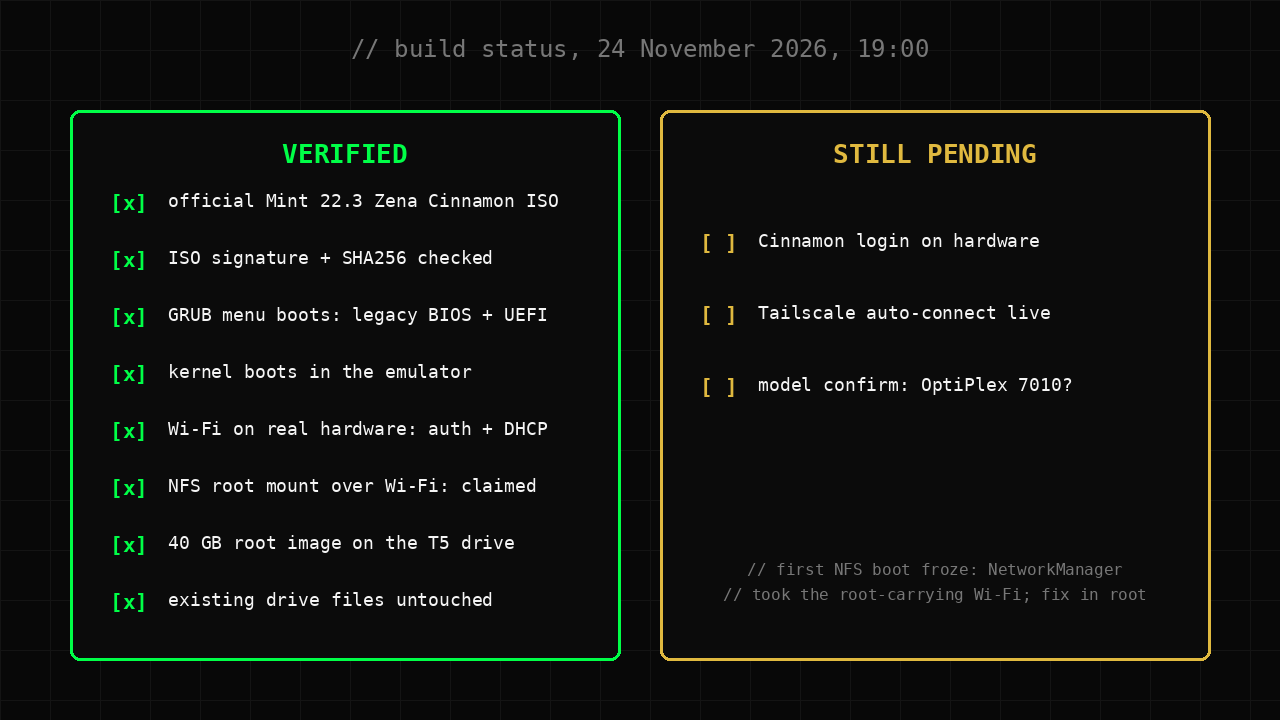
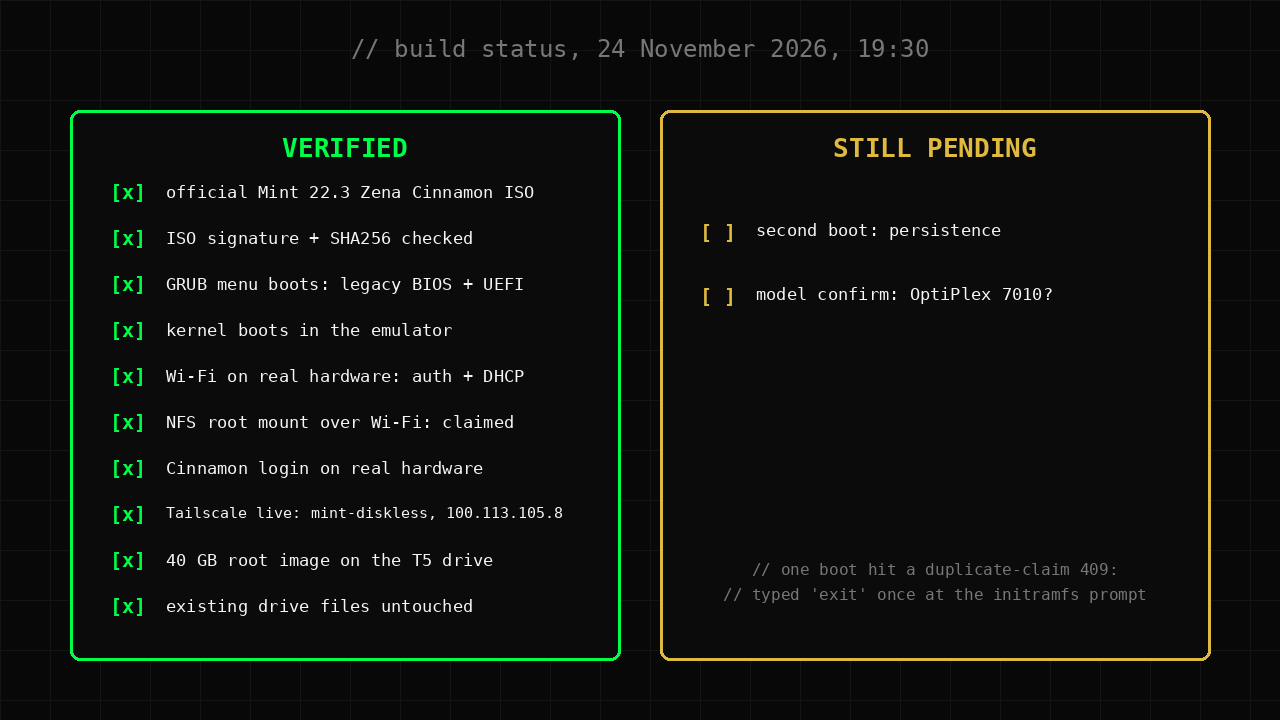
Netboot article: Cinnamon login verified on real hardware (~19:30), Tailscale live, persistence + model pending

diff --git a/diskless-mint-netboot.html b/diskless-mint-netboot.html
@@ -3,7 +3,7 @@
 <head>
   <meta charset="utf-8">
   <meta name="viewport" content="width=device-width,initial-scale=1">
-  <meta name="description" content="A diskless Linux Mint Cinnamon desktop that boots over Wi-Fi from my home server: a tiny USB loader, an NFS root on u3 and Tailscale for away from home. Emulator-tested, Wi-Fi and the NFS root mount verified on real hardware, Cinnamon login still pending, 0 DKK spent.">
+  <meta name="description" content="A diskless Linux Mint Cinnamon desktop that boots over Wi-Fi from my home server: a tiny USB loader, an NFS root on u3 and Tailscale for away from home. Emulator-tested, Wi-Fi, NFS root and the Cinnamon login verified on real hardware, persistence across reboots still open, 0 DKK spent.">
   <meta name="theme-color" content="#08111f">
   <title>Diskless Linux Mint: one desktop that boots from my home network | Andreas Patinas</title>
   <script>document.documentElement.classList.add('js');(function(){var t=localStorage.getItem('portfolio-theme');if(!t){t=window.matchMedia&&window.matchMedia('(prefers-color-scheme: light)').matches?'light':'dark'}document.documentElement.dataset.theme=t})()</script>
@@ -23,6 +23,7 @@ img.wide{width:min(720px,100%);border:1px solid var(--line);border-radius:6px}
 .post-body th{color:var(--ink);background:var(--panel)}
 .yes{color:#00c853;font-weight:700}.no{color:#ff5f56;font-weight:700}.part{color:#e0b93f;font-weight:700}
 .badge{display:inline-block;background:rgba(224,185,63,.12);border:1px solid #e0b93f;color:#e0b93f;font:700 .7rem var(--mono);padding:1px 7px;border-radius:3px}
+.badge.ok{background:rgba(0,255,71,.12);border-color:#00ff47;color:#00c93e}
 </style>
 </head>
 <body>
@@ -35,7 +36,7 @@ img.wide{width:min(720px,100%);border:1px solid var(--line);border-radius:6px}
 <div class="post-meta"><span data-en="24 November 2026 · 5 min read · linux, netboot, home lab" data-da="24. november 2026 · 5 min læsning · linux, netboot, hjemmelab">24 November 2026 · 5 min read · linux, netboot, home lab</span></div>
 </header>
 <div class="post-body">
-<p><span class="badge" data-en="DESKTOP LOGIN STILL PENDING" data-da="DESKTOP-LOGIN AFVENTER STADIG">DESKTOP LOGIN STILL PENDING</span> <span data-en="The desktop is built, and the real boot is most of the way there: Wi-Fi authenticated and got an address, then the corrected loader claimed and mounted the NFS root from u3. Mint started its services, then its own NetworkManager took over the Wi-Fi carrying the root filesystem and the machine froze. The fix lives in the root on the server, and the Cinnamon login is still unproven. Pending parts carry a yellow badge. Total cost so far: 0 DKK." data-da="Desktoppen er bygget, og det rigtige boot er det meste af vejen: Wi-Fi godkendte og fik en adresse, og den rettede loader claimede og mountede NFS-roden fra u3. Mint startede sine tjenester, hvorefter dets egen NetworkManager overtog det Wi-Fi, der bar rodfilsystemet, og maskinen frøs. Rettelsen ligger i roden på serveren, og Cinnamon-loginnet er stadig ubevist. Afventende dele er markeret med et gult mærke. Samlet pris indtil videre: 0 kr.">The desktop is built, and the real boot is most of the way there: Wi-Fi authenticated and got an address, then the corrected loader claimed and mounted the NFS root from u3. Mint started its services, then its own NetworkManager took over the Wi-Fi carrying the root filesystem and the machine froze. The fix lives in the root on the server, and the Cinnamon login is still unproven. Pending parts carry a yellow badge. Total cost so far: 0 DKK.</span></p>
+<p><span class="badge ok" data-en="LOGIN VERIFIED ON REAL HARDWARE" data-da="LOGIN VERIFICERET PÅ RIGTIG HARDWARE">LOGIN VERIFIED ON REAL HARDWARE</span> <span data-en="The desktop works. On 24 November around 19:30 the OptiPlex booted from the Kingston stick over Wi-Fi, mounted the NFS root from u3, showed the greeter, I logged in, and the Cinnamon desktop with its panel and the Mint Welcome window was on the real screen. Tailscale connected by itself. The few parts still unproven carry a yellow badge. Total cost so far: 0 DKK." data-da="Desktoppen virker. Den 24. november omkring kl. 19.30 bootede OptiPlex'en fra Kingston-sticken over Wi-Fi, mountede NFS-roden fra u3, viste login-skærmen, jeg loggede ind, og Cinnamon-desktoppen med panel og Mints velkomstvindue var på den rigtige skærm. Tailscale forbandt af sig selv. De få dele, der stadig er ubeviste, er markeret med et gult mærke. Samlet pris indtil videre: 0 kr.">The desktop works. On 24 November around 19:30 the OptiPlex booted from the Kingston stick over Wi-Fi, mounted the NFS root from u3, showed the greeter, I logged in, and the Cinnamon desktop with its panel and the Mint Welcome window was on the real screen. Tailscale connected by itself. The few parts still unproven carry a yellow badge. Total cost so far: 0 DKK.</span></p>
 <h2 data-en="The idea: the PC stays empty" data-da="Ideen: PC'en forbliver tom">The idea: the PC stays empty</h2>
 <p data-en="I have an old Dell OptiPlex standing in another room, and I want a full Linux desktop on it without installing anything on the machine itself. The desktop, the files and the settings live on my home server (u3) on its external drive. Any machine that can reach the network should boot into the same desktop and pick up where I left off. With Tailscale on top, that desktop should also be reachable when I am away from home." data-da="Jeg har en gammel Dell OptiPlex stående i et andet rum, og jeg vil have en fuld Linux-desktop på den uden at installere noget på selve maskinen. Desktoppen, filerne og indstillingerne ligger på min hjemmeserver (u3) på dens eksterne drev. Enhver maskine, der kan nå netværket, skal boote ind i samme desktop og fortsætte, hvor jeg slap. Med Tailscale ovenpå skal den desktop også være tilgængelig, når jeg ikke er hjemme.">I have an old Dell OptiPlex standing in another room, and I want a full Linux desktop on it without installing anything on the machine itself. The desktop, the files and the settings live on my home server (u3) on its external drive. Any machine that can reach the network should boot into the same desktop and pick up where I left off. With Tailscale on top, that desktop should also be reachable when I am away from home.</p>
 <h2 data-en="The method" data-da="Metoden">The method</h2>
@@ -50,6 +51,9 @@ img.wide{width:min(720px,100%);border:1px solid var(--line);border-radius:6px}
 <li data-en="The loader reaches its boot menu in an emulator under both legacy BIOS and UEFI, and the kernel starts. That proves the boot path, nothing more." data-da="Loaderen når sin bootmenu i en emulator under både legacy BIOS og UEFI, og kernen starter. Det beviser boot-stien, ikke mere.">The loader reaches its boot menu in an emulator under both legacy BIOS and UEFI, and the kernel starts. That proves the boot path, nothing more.</li>
 <li data-en="Wi-Fi works on the real hardware: on the first live boot the loader authenticated, associated and got an address from the router (DHCP), 24 November 18:07." data-da="Wi-Fi virker på den rigtige hardware: ved det første live-boot godkendte loaderen, forbandt og fik en adresse fra routeren (DHCP), 24. november 18:07.">Wi-Fi works on the real hardware: on the first live boot the loader authenticated, associated and got an address from the router (DHCP), 24 November 18:07.</li>
 <li data-en="The NFS root mount over Wi-Fi: the corrected loader claimed and mounted the desktop root from u3, about 49,500 NFS calls on that first NFS boot, 24 November around 19:00." data-da="NFS-rodmountet over Wi-Fi: den rettede loader claimede og mountede desktop-roden fra u3, omkring 49.500 NFS-kald ved det første NFS-boot, 24. november omkring kl. 19.">The NFS root mount over Wi-Fi: the corrected loader claimed and mounted the desktop root from u3, about 49,500 NFS calls on that first NFS boot, 24 November around 19:00.</li>
+<li data-en="The Cinnamon login on real hardware: the OptiPlex booted over Wi-Fi, mounted the NFS root, showed the greeter, I logged in, and the Cinnamon desktop with its panel and the Mint Welcome window was on the screen, 24 November around 19:30." data-da="Cinnamon-loginnet på rigtig hardware: OptiPlex'en bootede over Wi-Fi, mountede NFS-roden, viste login-skærmen, jeg loggede ind, og Cinnamon-desktoppen med panel og Mints velkomstvindue var på skærmen, 24. november omkring kl. 19.30.">The Cinnamon login on real hardware: the OptiPlex booted over Wi-Fi, mounted the NFS root, showed the greeter, I logged in, and the Cinnamon desktop with its panel and the Mint Welcome window was on the screen, 24 November around 19:30.</li>
+<li data-en="Automatic Tailscale connection: the desktop joined my tailnet by itself as mint-diskless (100.113.105.8) on the first login, no manual steps." data-da="Automatisk Tailscale-forbindelse: desktoppen tilsluttede mit tailnet af sig selv som mint-diskless (100.113.105.8) ved det første login, ingen manuelle trin.">Automatic Tailscale connection: the desktop joined my tailnet by itself as mint-diskless (100.113.105.8) on the first login, no manual steps.</li>
+<li data-en="The fixes it took on real hardware: keep Mint's NetworkManager off the root-carrying Wi-Fi and hand DNS over cleanly. Both live in the root on u3; the stick is unchanged." data-da="Rettelserne, der skulle til på rigtig hardware: hold Mints NetworkManager væk fra det Wi-Fi, der bærer roden, og overdrag DNS rent. Begge ligger i roden på u3; sticken er uændret.">The fixes it took on real hardware: keep Mint's NetworkManager off the root-carrying Wi-Fi and hand DNS over cleanly. Both live in the root on u3; the stick is unchanged.</li>
 <li data-en="The desktop root is a fresh 40 GB ext4 image on the server's external drive. The drive's existing files are untouched and its health checks are clean." data-da="Desktop-roden er et nyt 40 GB ext4-image på serverens eksterne drev. Drevets eksisterende filer er urørte, og dets sundhedstjek er rene.">The desktop root is a fresh 40 GB ext4 image on the server's external drive. The drive's existing files are untouched and its health checks are clean.</li>
 <li data-en="The first loader build contained no passwords. The final build carries the Wi-Fi password so the machine connects by itself, so that stick stays at home." data-da="Det første loader-build indeholdt ingen adgangskoder. Det endelige build rummer Wi-Fi-kodeordet, så maskinen selv forbinder, så den stick bliver hjemme.">The first loader build contained no passwords. The final build carries the Wi-Fi password so the machine connects by itself, so that stick stays at home.</li>
 </ul>
@@ -57,13 +61,12 @@ img.wide{width:min(720px,100%);border:1px solid var(--line);border-radius:6px}
 <h2 data-en="Not proven yet" data-da="Ikke bevist endnu">Not proven yet</h2>
 <p><span data-en="These parts still wait:" data-da="Disse dele venter stadig:">These parts still wait:</span> <span class="badge" data-en="PENDING" data-da="AFVENTER">PENDING</span></p>
 <ul>
-<li data-en="The Cinnamon login. The first NFS boot got as far as Mint starting its services, then Mint's own NetworkManager config overrode the rule that leaves the root-carrying interface alone. NetworkManager grabbed the Wi-Fi that carries the desktop, the machine dropped off the network and froze. The fix lives in the root on u3, no stick rewrite needed, and a retry boot is in progress." data-da="Cinnamon-loginnet. Det første NFS-boot nåede frem til, at Mint startede sine tjenester, hvorefter Mints egen NetworkManager-konfiguration tilsidesatte reglen om at lade det interface, der bærer roden, være i fred. NetworkManager overtog det Wi-Fi, der bærer desktoppen, maskinen faldt af netværket og frøs. Rettelsen ligger i roden på u3, sticken skal ikke skrives om, og et nyt boot er i gang.">The Cinnamon login. The first NFS boot got as far as Mint starting its services, then Mint's own NetworkManager config overrode the rule that leaves the root-carrying interface alone. NetworkManager grabbed the Wi-Fi that carries the desktop, the machine dropped off the network and froze. The fix lives in the root on u3, no stick rewrite needed, and a retry boot is in progress.</li>
-<li data-en="Automatic Tailscale connection. Tailscale is installed and enabled in the desktop and joins my tailnet after a one-time approval." data-da="Automatisk Tailscale-forbindelse. Tailscale er installeret og aktiveret i desktoppen og tilslutter mit tailnet efter en engangsgodkendelse.">Automatic Tailscale connection. Tailscale is installed and enabled in the desktop and joins my tailnet after a one-time approval.</li>
+<li data-en="Persistence across a second boot. The first login works; whether the next boot comes up just as clean is unproven. One boot on the way here hit a duplicate-claim 409 and needed a single 'exit' at the initramfs prompt, so the boot is not yet guaranteed hands-free." data-da="Persistens på tværs af et andet boot. Det første login virker; om det næste boot kommer op lige så rent, er ubevist. Ét boot undervejs ramte en duplicate-claim 409 og krævede et enkelt 'exit' ved initramfs-prompten, så bootet er endnu ikke garanteret håndfrit.">Persistence across a second boot. The first login works; whether the next boot comes up just as clean is unproven. One boot on the way here hit a duplicate-claim 409 and needed a single 'exit' at the initramfs prompt, so the boot is not yet guaranteed hands-free.</li>
 <li data-en="The exact target model. Everything points to a Dell OptiPlex 7010, but that is unconfirmed." data-da="Den præcise målmodel. Alt peger på en Dell OptiPlex 7010, men det er ubekræftet.">The exact target model. Everything points to a Dell OptiPlex 7010, but that is unconfirmed.</li>
 </ul>
 <h2 data-en="What it costs" data-da="Hvad det koster">What it costs</h2>
 <p data-en="0 DKK so far. The PC is an old office machine, the server and its drive were already here, and the software is free: Linux Mint, the netboot.xyz tooling, NFS and Tailscale's free plan. The only thing left to spend is an hour with a spare USB stick." data-da="0 kr. indtil videre. PC'en er en gammel kontormaskine, serveren og dens drev var her i forvejen, og softwaren er gratis: Linux Mint, netboot.xyz-værktøjet, NFS og Tailscales gratisplan. Det eneste, der mangler at blive brugt, er en time med en ledig USB-stick.">0 DKK so far. The PC is an old office machine, the server and its drive were already here, and the software is free: Linux Mint, the netboot.xyz tooling, NFS and Tailscale's free plan. The only thing left to spend is an hour with a spare USB stick.</p>
-<p data-en="Next step: the NetworkManager fix applied in the root, one more boot, and the Cinnamon login. This article gets updated with the real result, whatever it is." data-da="Næste skridt: NetworkManager-rettelsen anvendt i roden, ét boot mere og Cinnamon-loginnet. Denne artikel bliver opdateret med det rigtige resultat, uanset hvad det bliver.">Next step: the NetworkManager fix applied in the root, one more boot, and the Cinnamon login. This article gets updated with the real result, whatever it is.</p>
+<p data-en="Next step: a second boot to prove persistence, and the model confirmation. This article gets updated with the real result, whatever it is." data-da="Næste skridt: et andet boot for at bevise persistens, og modelbekræftelsen. Denne artikel bliver opdateret med det rigtige resultat, uanset hvad det bliver.">Next step: a second boot to prove persistence, and the model confirmation. This article gets updated with the real result, whatever it is.</p>
 <a class="back" href="blog.html" data-en="Back to the blog" data-da="Tilbage til bloggen">Back to the blog</a>
 </div>
 </div>

diff --git a/blog.html b/blog.html
@@ -21,7 +21,7 @@ section{padding:84px 0 96px}.sectionhead{display:grid;grid-template-columns:1fr 
     <section><div class="wrap">
       <div class="sectionhead"><h2 data-en="Blog" data-da="Blog">Blog</h2><p data-en="Build logs and field notes from my own projects: what I tried, what broke and what worked." data-da="Byggelogge og feltnoter fra mine egne projekter: hvad jeg prøvede, hvad der gik i stykker, og hvad der virkede.">Build logs and field notes from my own projects: what I tried, what broke and what worked.</p></div>
       <div class="grid">
-        <article class="card"><span class="tag">FIELD NOTES</span><h3 data-en="Diskless Linux Mint: booting my desktop over the network" data-da="Diskfri Linux Mint: min desktop booter over netværket">Diskless Linux Mint: booting my desktop over the network</h3><div class="meta"><span data-en="24 November 2026 · 5 min read" data-da="24. november 2026 · 5 min læsning">24 November 2026 · 5 min read</span></div><p data-en="An old office PC boots a full Cinnamon desktop from the network: a tiny USB loader brings up Wi-Fi, mounts the persistent root from my home server over NFS and leaves the machine's disk untouched. Wi-Fi and the NFS root mount are verified on the real machine; the Cinnamon login is next. 0 DKK spent." data-da="En gammel kontor-PC booter en fuld Cinnamon-desktop fra netværket: en lille USB-loader starter Wi-Fi, mounter den persistente rod fra min hjemmeserver via NFS og lader maskinens disk være urørt. Wi-Fi og NFS-rodmountet er verificeret på den rigtige maskine; Cinnamon-loginnet er det næste. 0 kr. brugt.">An old office PC boots a full Cinnamon desktop from the network: a tiny USB loader brings up Wi-Fi, mounts the persistent root from my home server over NFS and leaves the machine's disk untouched. Wi-Fi and the NFS root mount are verified on the real machine; the Cinnamon login is next. 0 DKK spent.</p><div class="links"><a href="diskless-mint-netboot.html" data-en="Read the article" data-da="Læs artiklen">Read the article</a></div></article>
+        <article class="card"><span class="tag">FIELD NOTES</span><h3 data-en="Diskless Linux Mint: booting my desktop over the network" data-da="Diskfri Linux Mint: min desktop booter over netværket">Diskless Linux Mint: booting my desktop over the network</h3><div class="meta"><span data-en="24 November 2026 · 5 min read" data-da="24. november 2026 · 5 min læsning">24 November 2026 · 5 min read</span></div><p data-en="An old office PC boots a full Cinnamon desktop from the network: a tiny USB loader brings up Wi-Fi, mounts the persistent root from my home server over NFS and leaves the machine's disk untouched. Wi-Fi, NFS root and the Cinnamon login are verified on the real machine; persistence across reboots is next. 0 DKK spent." data-da="En gammel kontor-PC booter en fuld Cinnamon-desktop fra netværket: en lille USB-loader starter Wi-Fi, mounter den persistente rod fra min hjemmeserver via NFS og lader maskinens disk være urørt. Wi-Fi, NFS-rod og Cinnamon-login er verificeret på den rigtige maskine; persistens på tværs af genstart er det næste. 0 kr. brugt.">An old office PC boots a full Cinnamon desktop from the network: a tiny USB loader brings up Wi-Fi, mounts the persistent root from my home server over NFS and leaves the machine's disk untouched. Wi-Fi, NFS root and the Cinnamon login are verified on the real machine; persistence across reboots is next. 0 DKK spent.</p><div class="links"><a href="diskless-mint-netboot.html" data-en="Read the article" data-da="Læs artiklen">Read the article</a></div></article>
         <article class="card"><span class="tag">FIELD NOTES</span><h3 data-en="Cloud gaming, game by game: rented GPU vs official services" data-da="Cloud gaming, spil for spil: lejet GPU mod officielle tjenester">Cloud gaming, game by game: rented GPU vs official services</h3><div class="meta"><span data-en="20 November 2026 · 7 min read" data-da="20. november 2026 · 7 min læsning">20 November 2026 · 7 min read</span></div><p data-en="GTA5 story mode runs on a rented EU GPU for about 7.5-14 DKK an evening; Fortnite, Warzone and PUBG refuse it. The full per-game matrix, five free competitive games that do work, and Moonlight on a jailbroken PS4." data-da="GTA5 story mode kører på en lejet EU-GPU for cirka 7,5-14 kr. om aftenen; Fortnite, Warzone og PUBG nægter. Hele oversigten spil for spil, fem gratis competitive-spil der virker, og Moonlight på en jailbreaket PS4.">GTA5 story mode runs on a rented EU GPU for about 7.5-14 DKK an evening; Fortnite, Warzone and PUBG refuse it. The full per-game matrix, five free competitive games that do work, and Moonlight on a jailbroken PS4.</p><div class="links"><a href="cloud-gaming-rented-gpu.html" data-en="Read the article" data-da="Læs artiklen">Read the article</a></div></article>
         <article class="card"><span class="tag">FIELD NOTES</span><h3 data-en="How I make AI documentaries for Past Forward" data-da="Sådan laver jeg AI-dokumentarer til Past Forward">How I make AI documentaries for Past Forward</h3><div class="meta"><span data-en="1 November 2026 · 5 min read" data-da="1. november 2026 · 5 min læsning">1 November 2026 · 5 min read</span></div><p data-en="Chatterbox narration on a free Kaggle GPU, generated stills instead of AI video clips, Remotion assembly and the checks that caught five real errors. The full setup, reproducible with your own accounts." data-da="Chatterbox-oplæsning på en gratis Kaggle-GPU, genererede stills i stedet for AI-videoklip, Remotion-klipning og tjekkene, der fangede fem reelle fejl. Hele opsætningen, som du kan genskabe med dine egne konti.">Chatterbox narration on a free Kaggle GPU, generated stills instead of AI video clips, Remotion assembly and the checks that caught five real errors. The full setup, reproducible with your own accounts.</p><div class="links"><a href="past-forward-ai-documentaries.html" data-en="Read the article" data-da="Læs artiklen">Read the article</a></div></article>
         <article class="card"><span class="tag">FIELD NOTES</span><h3 data-en="Turning my wardrobe into an AI outfit planner" data-da="Sådan blev min garderobe en AI-outfitplanlægger">Turning my wardrobe into an AI outfit planner</h3><div class="meta"><span data-en="30 October 2026 · 4 min read" data-da="30. oktober 2026 · 4 min læsning">30 October 2026 · 4 min read</span></div><p data-en="Photos of my clothes became a numbered, private inventory of 67 items. Now an AI assistant suggests outfits with weather, repair flags and a generated try-on image checked against the originals." data-da="Billeder af mit tøj blev en nummereret, privat oversigt over 67 stykker. Nu foreslår en AI-assistent outfits med vejr, reparationsmarkeringer og et genereret prøvebillede kontrolleret mod originalerne.">Photos of my clothes became a numbered, private inventory of 67 items. Now an AI assistant suggests outfits with weather, repair flags and a generated try-on image checked against the originals.</p><div class="links"><a href="wardrobe-ai-outfit-planner.html" data-en="Read the article" data-da="Læs artiklen">Read the article</a></div></article>

diff --git a/index.html b/index.html
@@ -83,7 +83,7 @@ html[data-theme="light"]{--ink:#16191e;--muted:#4d5762;--bg:#f5f5f2;--line:#d8dc
     <section id="blog"><div class="wrap">
       <div class="sectionhead reveal"><h2 data-en="Blog" data-da="Blog">Blog</h2><p data-en="Build logs and field notes from my own projects: what I tried, what broke and what worked. Drafted with AI assistance." data-da="Byggelogge og feltnoter fra mine egne projekter: hvad jeg prøvede, hvad der gik i stykker, og hvad der virkede. Skrevet i udkast med AI-assistance.">Build logs and field notes from my own projects: what I tried, what broke and what worked. Drafted with AI assistance.</p></div>
       <div class="grid">
-        <article class="card wide reveal"><span class="tag">FIELD NOTES</span><h3><a href="diskless-mint-netboot.html" style="text-decoration:none" data-en="Diskless Linux Mint: booting my desktop over the network" data-da="Diskfri Linux Mint: min desktop booter over netværket">Diskless Linux Mint: booting my desktop over the network</a></h3><p data-en="An old office PC boots a full Cinnamon desktop from the network: a tiny USB loader brings up Wi-Fi, mounts the persistent root from my home server over NFS and leaves the machine's disk untouched. Wi-Fi and the NFS root mount are verified on the real machine; the Cinnamon login is next. 0 DKK spent." data-da="En gammel kontor-PC booter en fuld Cinnamon-desktop fra netværket: en lille USB-loader starter Wi-Fi, mounter den persistente rod fra min hjemmeserver via NFS og lader maskinens disk være urørt. Wi-Fi og NFS-rodmountet er verificeret på den rigtige maskine; Cinnamon-loginnet er det næste. 0 kr. brugt.">An old office PC boots a full Cinnamon desktop from the network: a tiny USB loader brings up Wi-Fi, mounts the persistent root from my home server over NFS and leaves the machine's disk untouched. Wi-Fi and the NFS root mount are verified on the real machine; the Cinnamon login is next. 0 DKK spent.</p><ul><li><span data-en="24 November 2026 · 5 min read" data-da="24. november 2026 · 5 min læsning">24 November 2026 · 5 min read</span></li><li>Linux · netboot · home lab</li></ul><div class="links"><a href="diskless-mint-netboot.html" data-en="Read the article" data-da="Læs artiklen">Read the article</a></div></article>
+        <article class="card wide reveal"><span class="tag">FIELD NOTES</span><h3><a href="diskless-mint-netboot.html" style="text-decoration:none" data-en="Diskless Linux Mint: booting my desktop over the network" data-da="Diskfri Linux Mint: min desktop booter over netværket">Diskless Linux Mint: booting my desktop over the network</a></h3><p data-en="An old office PC boots a full Cinnamon desktop from the network: a tiny USB loader brings up Wi-Fi, mounts the persistent root from my home server over NFS and leaves the machine's disk untouched. Wi-Fi, NFS root and the Cinnamon login are verified on the real machine; persistence across reboots is next. 0 DKK spent." data-da="En gammel kontor-PC booter en fuld Cinnamon-desktop fra netværket: en lille USB-loader starter Wi-Fi, mounter den persistente rod fra min hjemmeserver via NFS og lader maskinens disk være urørt. Wi-Fi, NFS-rod og Cinnamon-login er verificeret på den rigtige maskine; persistens på tværs af genstart er det næste. 0 kr. brugt.">An old office PC boots a full Cinnamon desktop from the network: a tiny USB loader brings up Wi-Fi, mounts the persistent root from my home server over NFS and leaves the machine's disk untouched. Wi-Fi, NFS root and the Cinnamon login are verified on the real machine; persistence across reboots is next. 0 DKK spent.</p><ul><li><span data-en="24 November 2026 · 5 min read" data-da="24. november 2026 · 5 min læsning">24 November 2026 · 5 min read</span></li><li>Linux · netboot · home lab</li></ul><div class="links"><a href="diskless-mint-netboot.html" data-en="Read the article" data-da="Læs artiklen">Read the article</a></div></article>
         <article class="card wide reveal"><span class="tag">FIELD NOTES</span><h3><a href="cloud-gaming-rented-gpu.html" style="text-decoration:none" data-en="Cloud gaming, game by game: rented GPU vs official services" data-da="Cloud gaming, spil for spil: lejet GPU mod officielle tjenester">Cloud gaming, game by game: rented GPU vs official services</a></h3><p data-en="GTA5 story mode runs on a rented EU GPU for about 7.5-14 DKK an evening; Fortnite, Warzone and PUBG refuse it. The per-game matrix, five free competitive games that do work, and Moonlight on a jailbroken PS4." data-da="GTA5 story mode kører på en lejet EU-GPU for cirka 7,5-14 kr. om aftenen; Fortnite, Warzone og PUBG nægter. Oversigten spil for spil, fem gratis competitive-spil der virker, og Moonlight på en jailbreaket PS4.">GTA5 story mode runs on a rented EU GPU for about 7.5-14 DKK an evening; Fortnite, Warzone and PUBG refuse it. The per-game matrix, five free competitive games that do work, and Moonlight on a jailbroken PS4.</p><ul><li><span data-en="20 November 2026 · 7 min read" data-da="20. november 2026 · 7 min læsning">20 November 2026 · 7 min read</span></li><li>Cloud gaming · GPU rental · research</li></ul><div class="links"><a href="cloud-gaming-rented-gpu.html" data-en="Read the article" data-da="Læs artiklen">Read the article</a></div></article>
       </div>
       <div class="links blog-all reveal"><a href="blog.html" data-en="See all articles" data-da="Se alle artikler">See all articles</a></div>
